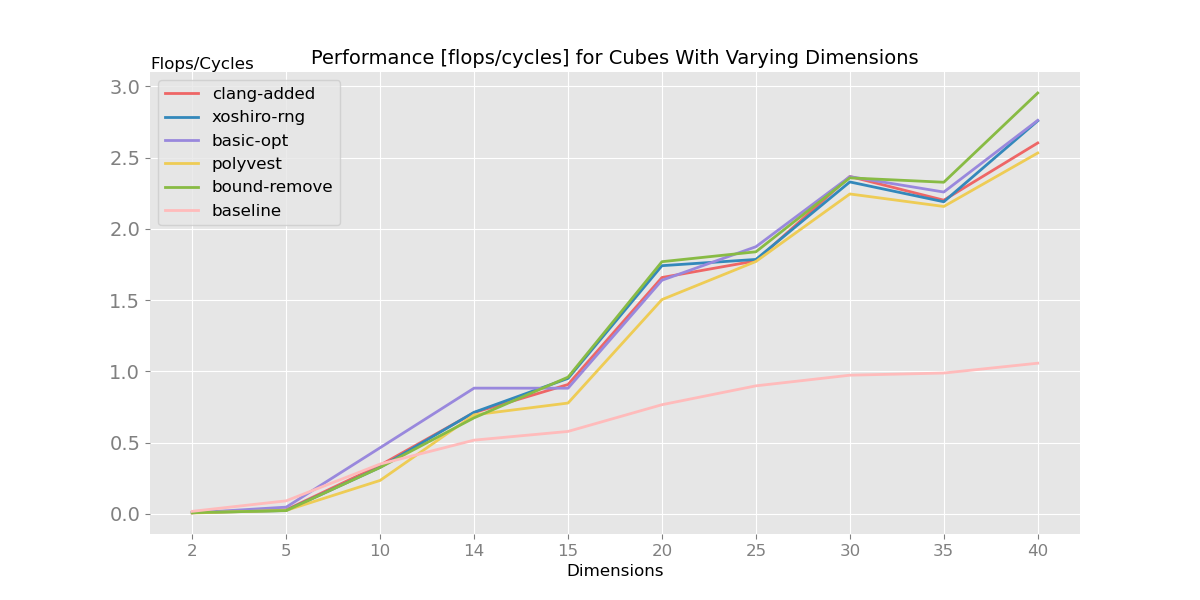
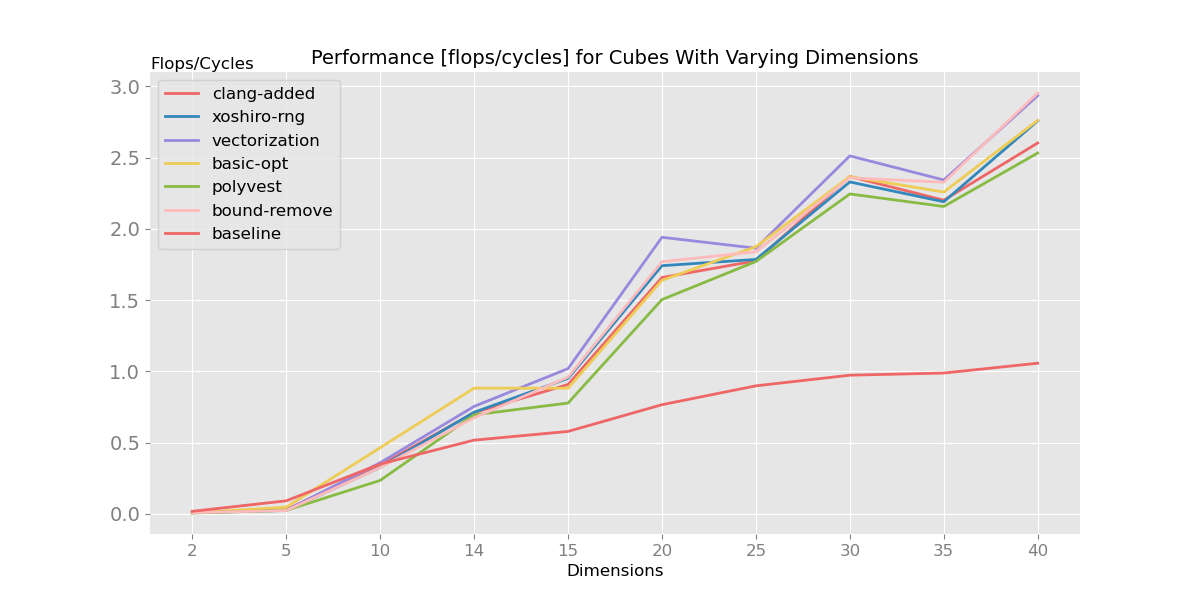
Update performance plot with vectorization

diff --git a/get_branch_performance.py b/get_branch_performance.py
@@ -4,7 +4,8 @@ import os
 import utils
 
 # Change these variables
-BRANCHES = ["xoshiro-rng", "baseline", "basic-opt", "clang-added", "bound-remove"]
+#BRANCHES = ["xoshiro-rng", "baseline", "basic-opt", "clang-added", "bound-remove"]
+BRANCHES = ["vectorization"]
 TEST_DIR = "reduced_examples"
 RESULTS_DIR = "results"
 
@@ -67,8 +68,8 @@ def measure_performance(executable, file_paths):
 def main():
     print("Disabling Turbo Boost")
     utils.toggle_turbo_boost("disable")
-    print("Creating executables from the following branches: ", BRANCHES)
-    utils.create_executables(BRANCHES)
+    #print("Creating executables from the following branches: ", BRANCHES)
+    #utils.create_executables(BRANCHES)
     print("Parsing test files")
     _, test_paths = utils.list_files_sorted(TEST_DIR)
     print("Creating results dir")
@@ -77,9 +78,10 @@ def main():
     print("Measuring performance")
     for root, _, files in os.walk("executables"):
         for executable in files:
-            executable_path = os.path.join(root, executable)
-            print("Measuring performance of ", executable_path)
-            measure_performance(executable_path, test_paths)
+            if executable.split("_")[0] in BRANCHES:
+                executable_path = os.path.join(root, executable)
+                print("Measuring performance of ", executable_path)
+                measure_performance(executable_path, test_paths)
     print("Enabling Turbo Boost")
     utils.toggle_turbo_boost("enable")
 

diff --git a/plot_branch_performance.py b/plot_branch_performance.py
@@ -3,7 +3,7 @@ from matplotlib import cycler
 import utils
 import os
 
-BRANCHES = ["xoshiro-rng", "baseline", "basic-opt", "clang-added", "bound-remove", "polyvest"]
+BRANCHES = ["xoshiro-rng", "baseline", "basic-opt", "clang-added", "bound-remove", "polyvest", "vectorization"]
 TEST_DIR = "reduced_examples"
 RESULTS_DIR = "results"
 
